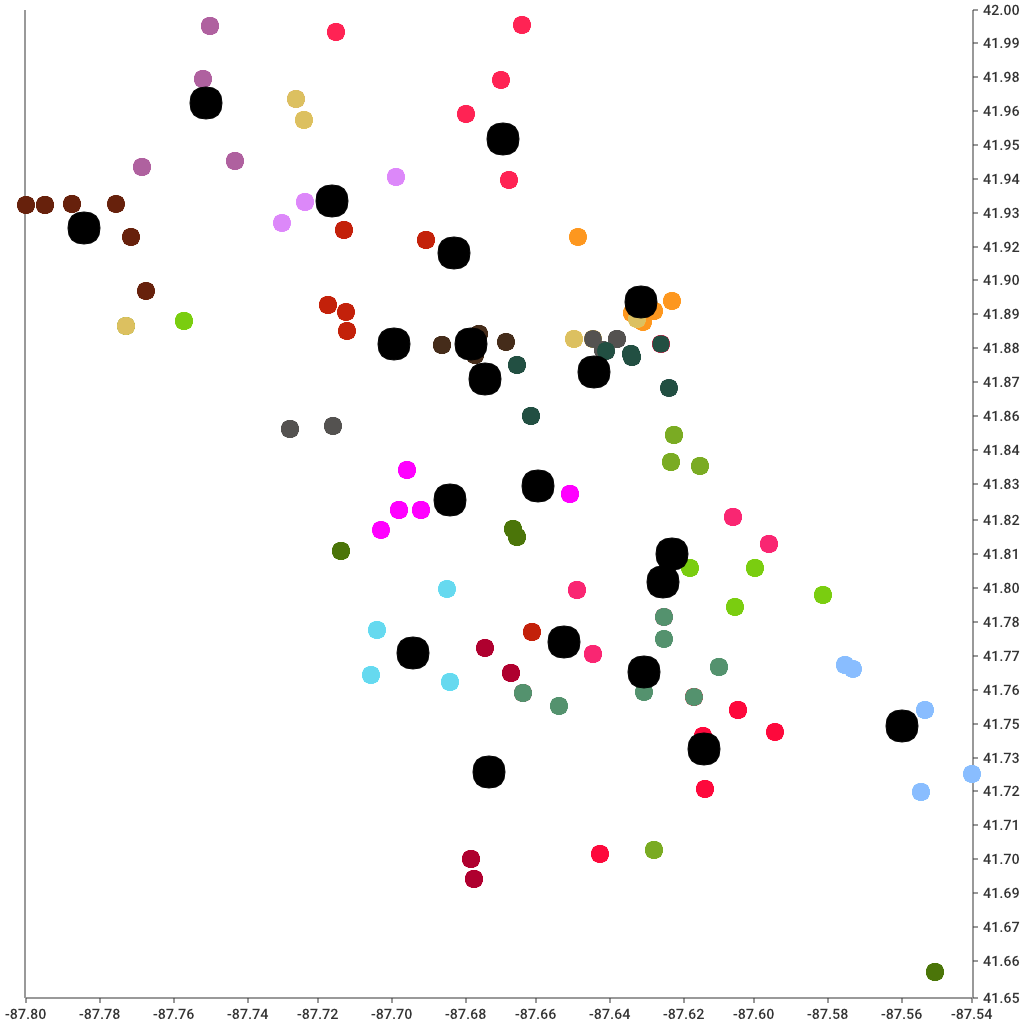
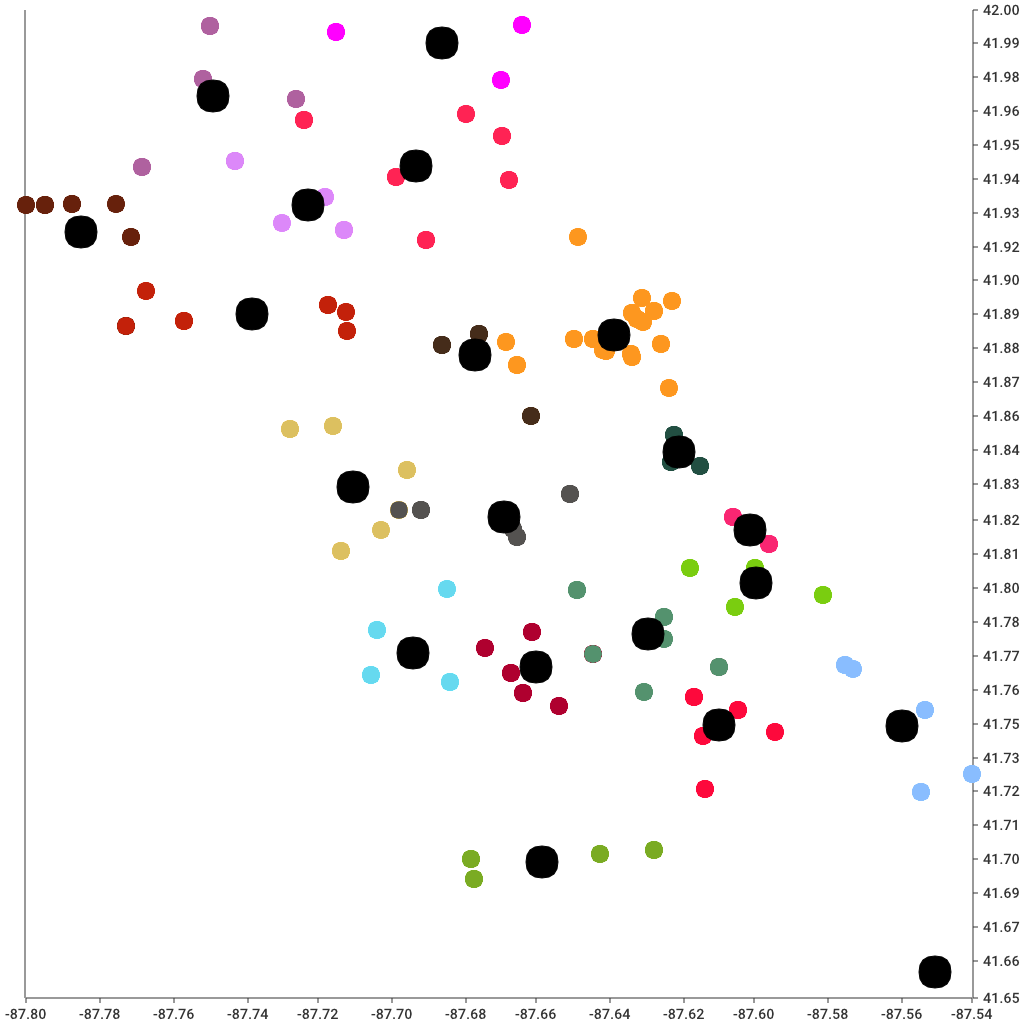
good clustering, not balanced

diff --git a/main.go b/main.go
@@ -55,17 +55,21 @@ func main() {
 			// 	dt float64
 			// }
 			// var sortcd []sorted
-			// var B int
+			var B int
+
+			if len(clusters[i].Observations) < 102 {
+				continue
+			}
 			// for i, _ := range clusters {
-			// 	// search nearest neighbour
-			// 	r, cd := clusters.Neighbour(clusters[i].Center, i)
+			// search nearest neighbour
+			// r, cd := clusters.Neighbour(clusters[i].Center, i)
 			// 	sortcd = append(sortcd, sorted{
 			// 		r,
 			// 		cd,
 			// 	})
 			// }
 
-			// //close (?)
+			//close (?)
 			// sort.SliceStable(sortcd, func(i, j int) bool {
 			// 	return sortcd[i].dt < sortcd[j].dt
 			// })
@@ -75,25 +79,29 @@ func main() {
 			// 	B = sortcd[1].cl
 			// }
 
-			//call borderadjust, get new cluster A & B
-			if i < (len(clusters) - 1) {
-				diffA, diffB = clusters.borderadjust(i, i+1)
-			} else {
-				diffA, diffB = clusters.borderadjust(i, 0)
-			}
+			// //call borderadjust, get new cluster A & B
+			// if i < (len(clusters) - 1) {
+			B, _ = clusters.Neighbour(clusters[i].Center, i)
+			diffA, diffB = clusters.borderadjust(i, B)
+			// } else {
+			// 	diffA, diffB = clusters.borderadjust(i, 0)
+			// }
 
 			if len(diffA) == 0 && len(diffB) == 0 {
 				continue
 			} else if len(diffA) != 0 && len(diffB) != 0 {
 				clusters[i].Observations = diffA
-				if i < (len(clusters) - 1) {
-					for j := 0; j < len(diffB); j++ {
-						clusters[i+1].Observations = append(clusters[i+1].Observations, diffB[j].data)
-					}
-				} else {
-					for j := 0; j < len(diffB); j++ {
-						clusters[0].Observations = append(clusters[0].Observations, diffB[j].data)
-					}
+				// 	if i < (len(clusters) - 1) {
+				// 		for j := 0; j < len(diffB); j++ {
+				// 			clusters[i+1].Observations = append(clusters[i+1].Observations, diffB[j].data)
+				// 		}
+				// 	} else {
+				// 		for j := 0; j < len(diffB); j++ {
+				// 			clusters[0].Observations = append(clusters[0].Observations, diffB[j].data)
+				// 		}
+				// 	}
+				for j := 0; j < len(diffB); j++ {
+					clusters[B].Observations = append(clusters[B].Observations, diffB[j].data)
 				}
 			}
 			clusters.Recenter()
